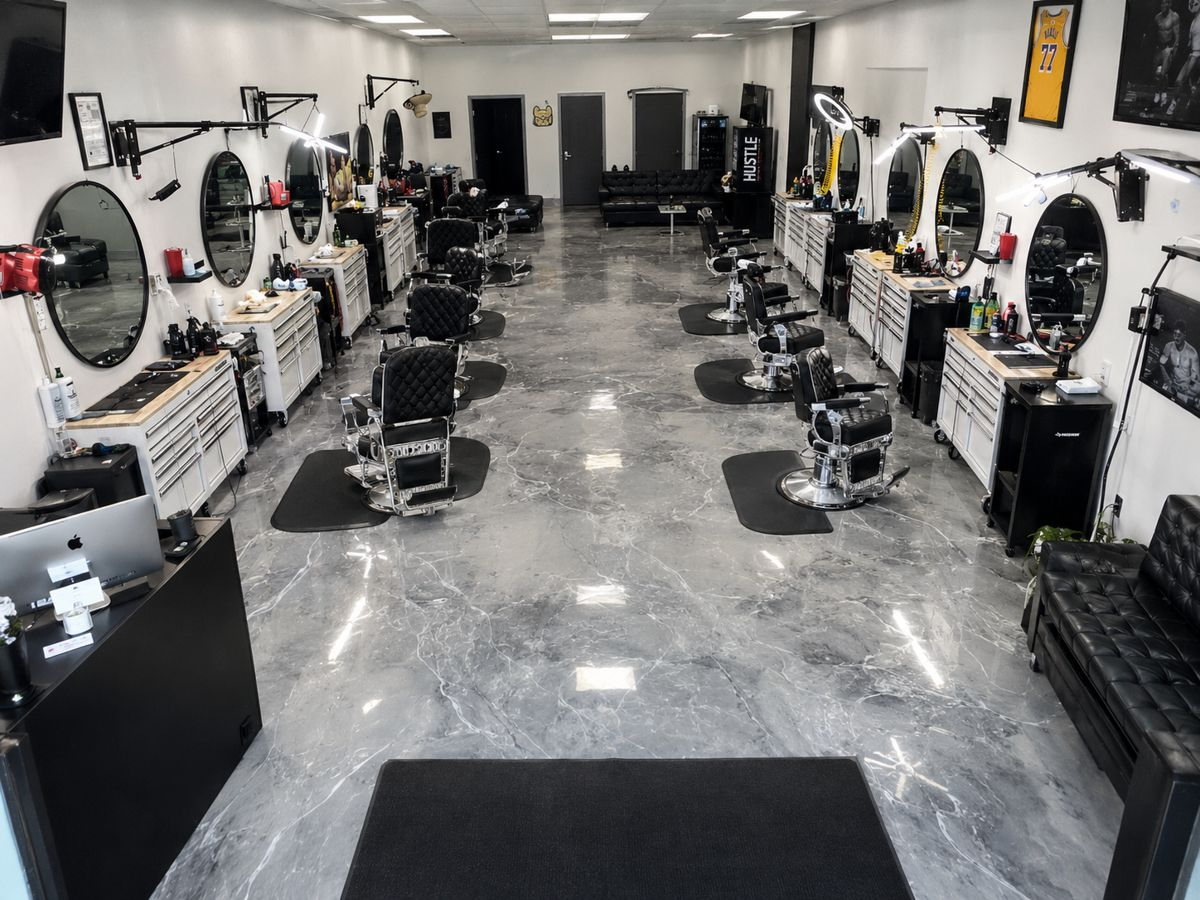
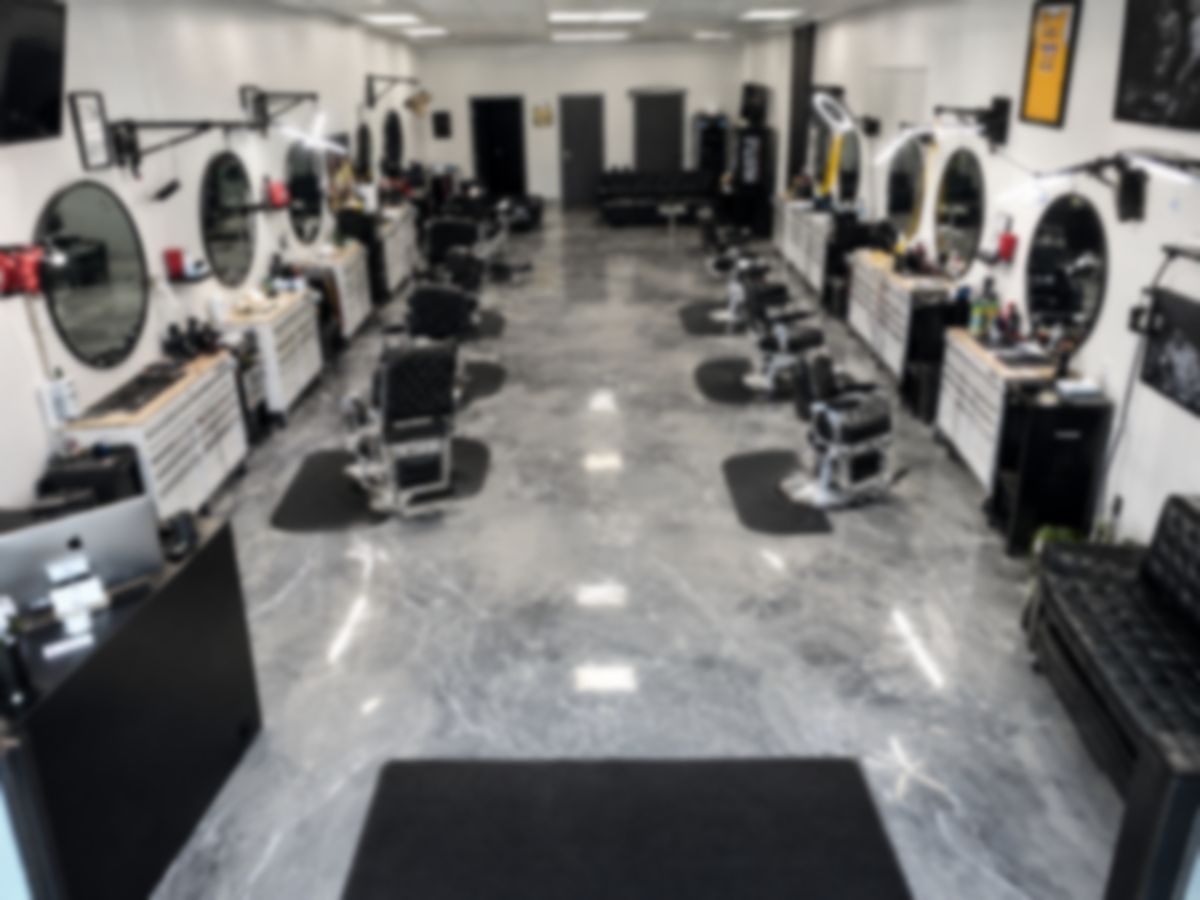
Blur only the Moreno Beach photo; Pigeon Pass back to sharp
Claude-Session: https://claude.ai/code/session_01BFTeBhqCSWbb4ktbSYDQv6

diff --git a/src/app/page.tsx b/src/app/page.tsx
@@ -57,7 +57,7 @@ function LocationCard({ location, index, barberCount }: { location: Location; in
       {location.photo ? (
         <div
           aria-hidden
-          className="absolute inset-0 scale-105 bg-cover bg-center blur-[2px] grayscale"
+          className="absolute inset-0 bg-cover bg-center grayscale"
           style={{ backgroundImage: `url(${location.photo})` }}
         />
       ) : (
